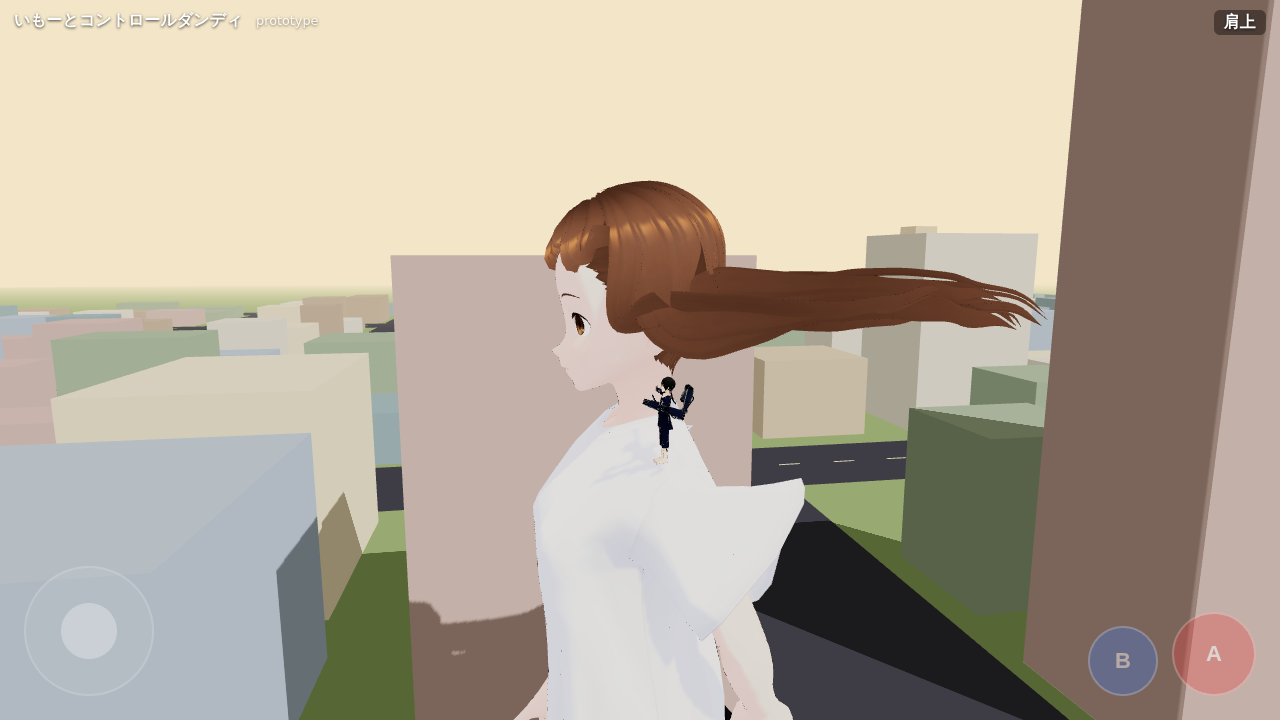
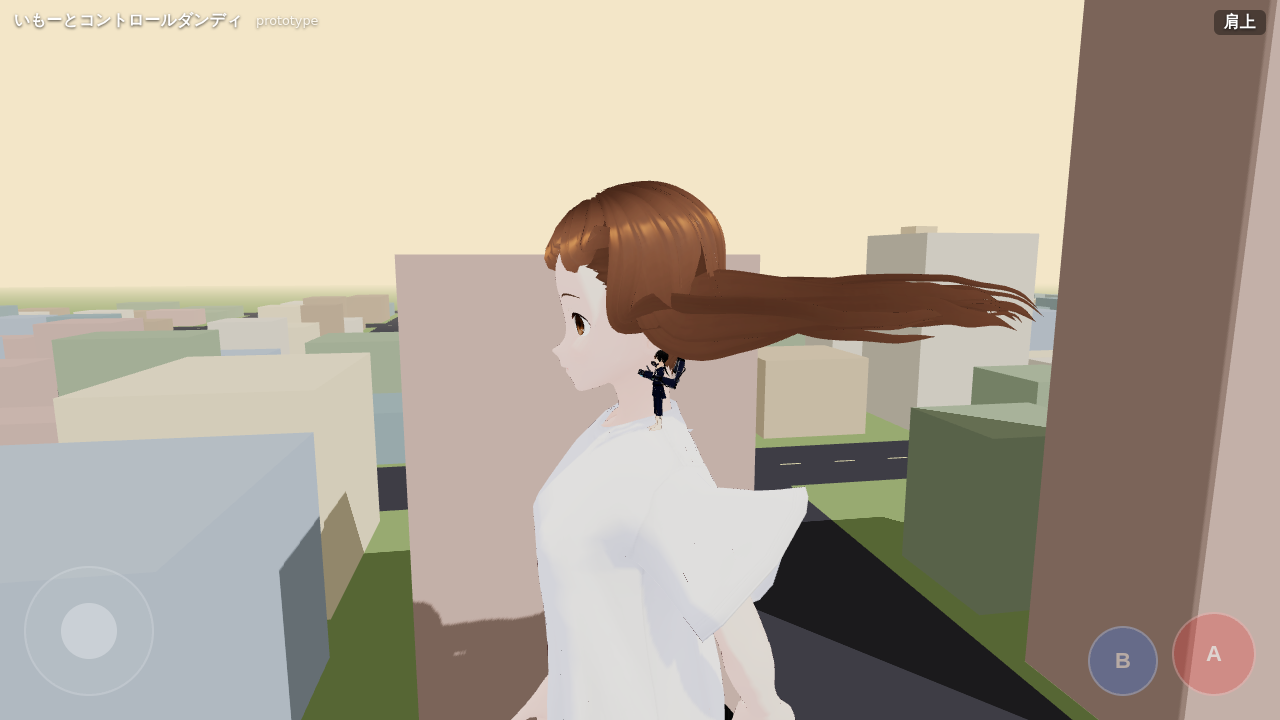
肩の接地レイをワールド座標で撃つように修正（ボーン軸のずれで外側に飛んでいた）
Claude-Session: https://claude.ai/code/session_01LRdSSvDYqsxbS1UhpVjjzZ

diff --git a/src/entities/Imouto.tsx b/src/entities/Imouto.tsx
@@ -12,6 +12,9 @@ import { applyWalk } from '../systems/procAnim'
 const raycaster = new THREE.Raycaster()
 const DOWN = new THREE.Vector3(0, -1, 0)
 const probeOrigin = new THREE.Vector3()
+const boneWorld = new THREE.Vector3()
+const headWorld = new THREE.Vector3()
+const inward = new THREE.Vector3()
 
 /**
  * 妹。VRM を身長 60m にスケール。歩行は手続きアニメ。
@@ -87,20 +90,25 @@ export function Imouto() {
 
     // 肩の表面をレイキャストで探し、アンカーをそこへ（兄がめり込まず・浮かず乗る）
     probeTimer.current -= dt
-    if (probeTimer.current <= 0 && boneRef.current && anchorRef.current) {
+    if (probeTimer.current <= 0 && boneRef.current && anchorRef.current && refs.head) {
       probeTimer.current = IMOUTO.shoulderProbeInterval
       const bone = boneRef.current
+      const H = SCALE.imoutoHeight
       const pr = IMOUTO.shoulderProbe
-      probeOrigin.set(pr.x, pr.up, pr.z)
-      bone.localToWorld(probeOrigin)
+      bone.getWorldPosition(boneWorld)
+      refs.head.getWorldPosition(headWorld)
+      // 肩関節から頭へ向かう水平方向
+      inward.subVectors(headWorld, boneWorld)
+      inward.y = 0
+      inward.normalize()
+      probeOrigin.copy(boneWorld).addScaledVector(inward, pr.inward * H)
+      probeOrigin.y += pr.up * H
       raycaster.set(probeOrigin, DOWN)
-      raycaster.far = SCALE.imoutoHeight * 0.5
+      raycaster.far = pr.far * H
       const hits = raycaster.intersectObject(vrm.scene, true)
-      if (hits.length > 0) {
-        const p = hits[0].point.clone()
-        bone.worldToLocal(p)
-        anchorRef.current.position.copy(p)
-      }
+      const target = hits.length > 0 ? hits[0].point.clone() : probeOrigin.clone().setY(boneWorld.y + IMOUTO.shoulderFallbackUp * H)
+      bone.worldToLocal(target)
+      anchorRef.current.position.copy(target)
     }
   })
 

diff --git a/src/config/game.ts b/src/config/game.ts
@@ -53,8 +53,10 @@ export const IMOUTO = {
   walk: { legSwing: 0.55, kneeBend: 0.5, armSwing: 0.35, armDown: 1.25, bodyBob: 0.012, lean: 0.06 },
   /** 肩アンカー：左上腕ボーン（肩関節）からのオフセット（モデルローカル、m） */
   shoulderOffset: { x: -0.005, y: 0.05, z: 0.0 },
-  /** 肩の表面をレイキャストで探す：上腕ボーンからこの位置（モデルローカル m）の上方から下向きに撃つ */
-  shoulderProbe: { x: -0.02, up: 0.3, z: 0.0 },
+  /** 肩の表面をレイキャストで探す（身長比）。肩関節から頭方向へ inward、真上 up の点から下向きに撃つ */
+  shoulderProbe: { inward: 0.012, up: 0.08, far: 0.2 },
+  /** レイが当たらない時の高さ（肩関節から、身長比） */
+  shoulderFallbackUp: 0.025,
   shoulderProbeInterval: 0.25,
   /** 着地の揺れの強さ */
   stepShake: 1.0,
